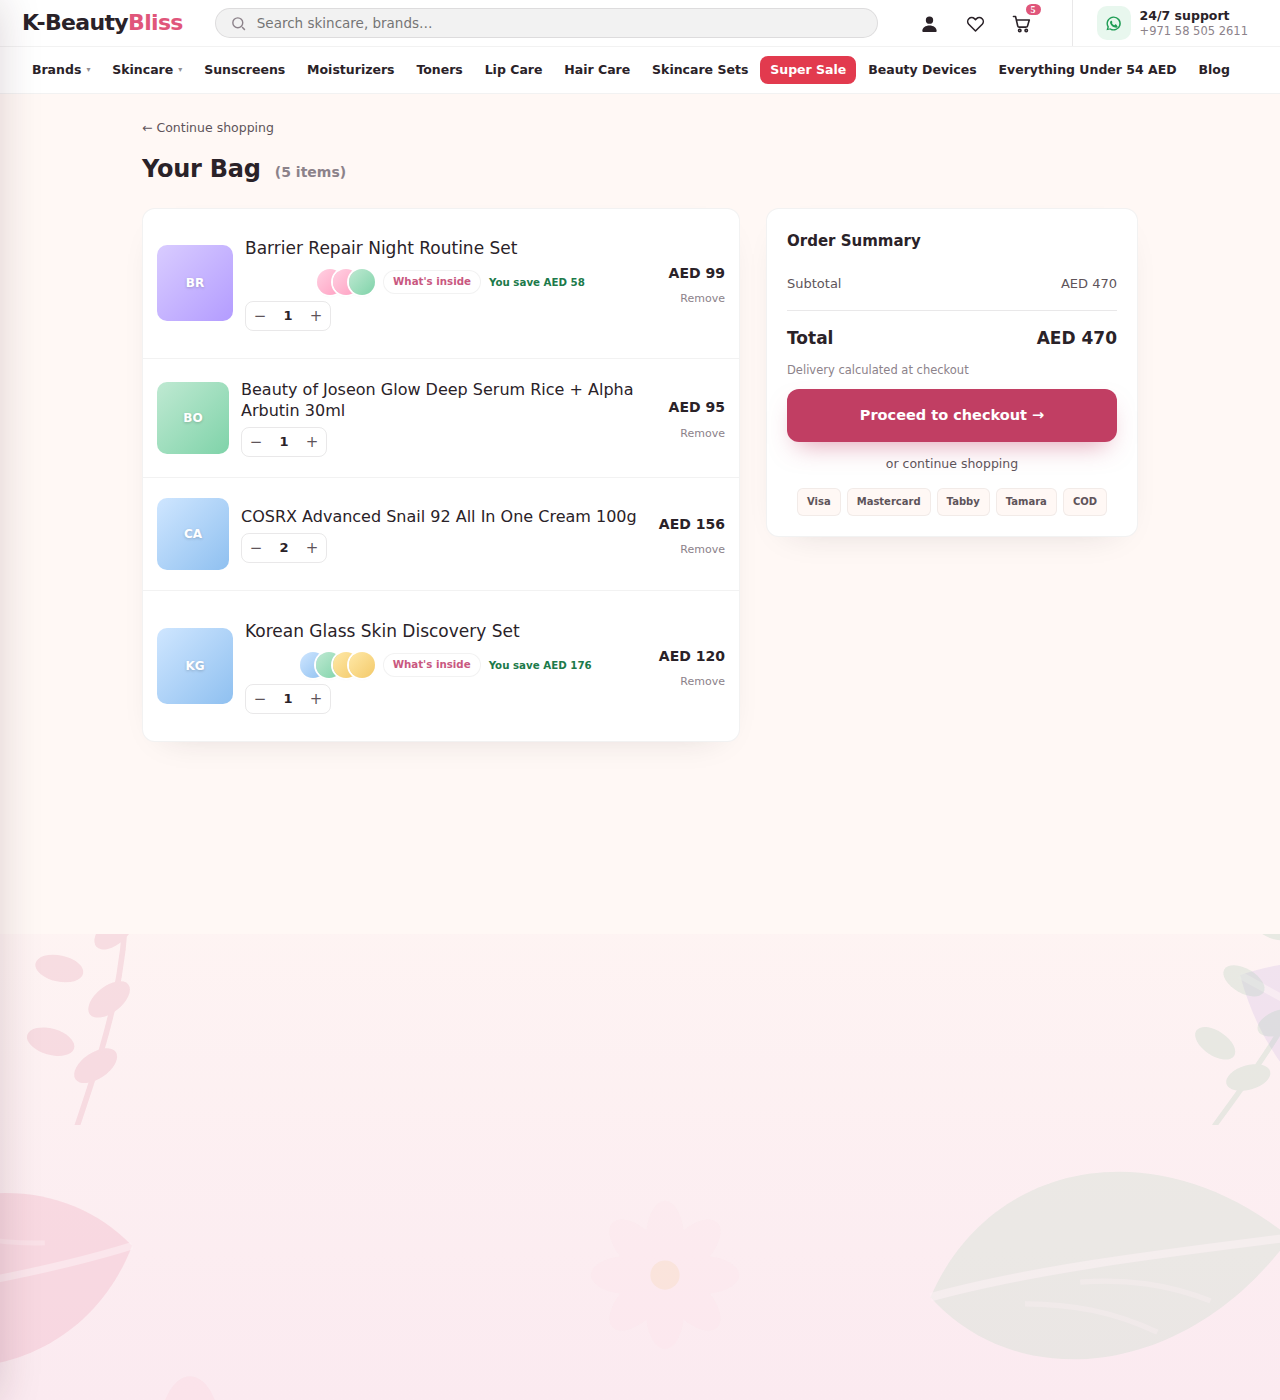
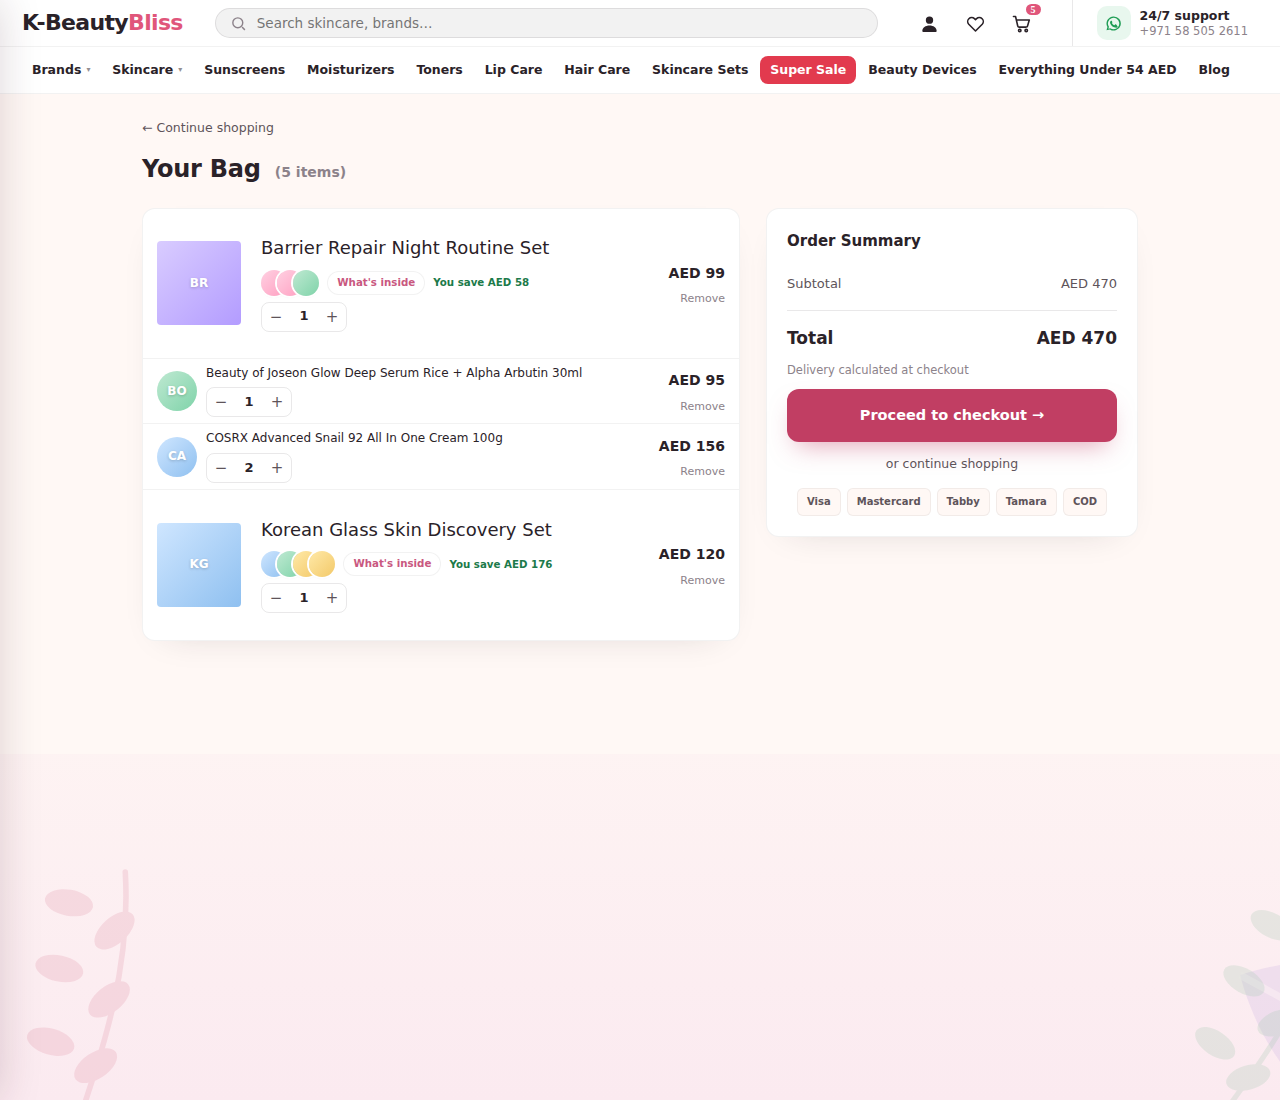
A picture of the two row shapes, rather than a claim about them
rowcontrols-* was taken with the two control sets only a little apart, so it
proved the numbers and showed nothing. Retaken with them dragged deliberately
far apart, on one basket holding two sets and two ordinary products:

               ordinary row   its name   a SET's row   its name
  1280            66px          12px        150px        18px
  390             89px         11.5px       170px       15.5px

Two shapes on one page, from two screens, neither able to reach the other's
row -- and the phone's four numbers are its own, which is the second thing the
picture shows. scrollWidth 390 and 1280.

Claude-Session: https://claude.ai/code/session_01CmowJLWcbxiie7sccsLiWq

diff --git a/docs/CR-CART-ROW-CONTROLS.md b/docs/CR-CART-ROW-CONTROLS.md
@@ -111,6 +111,22 @@ ordinary row is still exactly 96px — and the one row with an extra block is as
 tall as what is in it: 167px at 390 and 163px at 1280 with his padding, 122px at
 1280 at shipped defaults.
 
+## What the separation looks like
+
+`docs/CR-cart-shots/rowcontrols-390.png` and `rowcontrols-1280.png` are one
+basket with two sets and two ordinary products, with the two control sets
+dragged deliberately far apart — ordinary rows compact with small round
+thumbnails, set rows tall with large square ones:
+
+| | ordinary row | its name | a SET's row | its name |
+|---|---|---|---|---|
+| 1280 | 66px | 12px | 150px | 18px |
+| 390 | 89px | 11.5px | 170px | 15.5px |
+
+Two shapes on one page, and the phone's four numbers are its own — neither
+screen inherits the other breakpoint's. `document.documentElement.scrollWidth`
+is 390 and 1280.
+
 ## No control can put that state back
 
 The height control on **both** screens is a MINIMUM. There is no `height`, no
@@ -159,7 +175,7 @@ and the stepper.
 | `pop-after-first-*` | the same popup on the FIRST row, which was always fine |
 | `setrow-before-clip-*` / `setrow-after-clip-*` | the squeezed set row losing and keeping its name and stepper |
 | `ab-before-*` / `ab-after-*` | the same, on ONE basket with only the built stylesheet swapped |
-| `rowcontrols-*` | both control sets moved at once: ordinary rows 120px with a 16px name, the set row 150px with a 17px name |
+| `rowcontrols-*` | both control sets moved at once, deliberately far apart, so the separation is a picture and not a claim |
 | `en-*` / `ar-*` | the cart in both languages with the popup OPEN on the last row |
 | `cartpage-folded-*` | Appearance → Cart page → Product rows · spacing and size |
 | `setap-folded-*` / `setap-open-*` | the Set screen's cart section, folded to 4 controls and opened to 13 |
